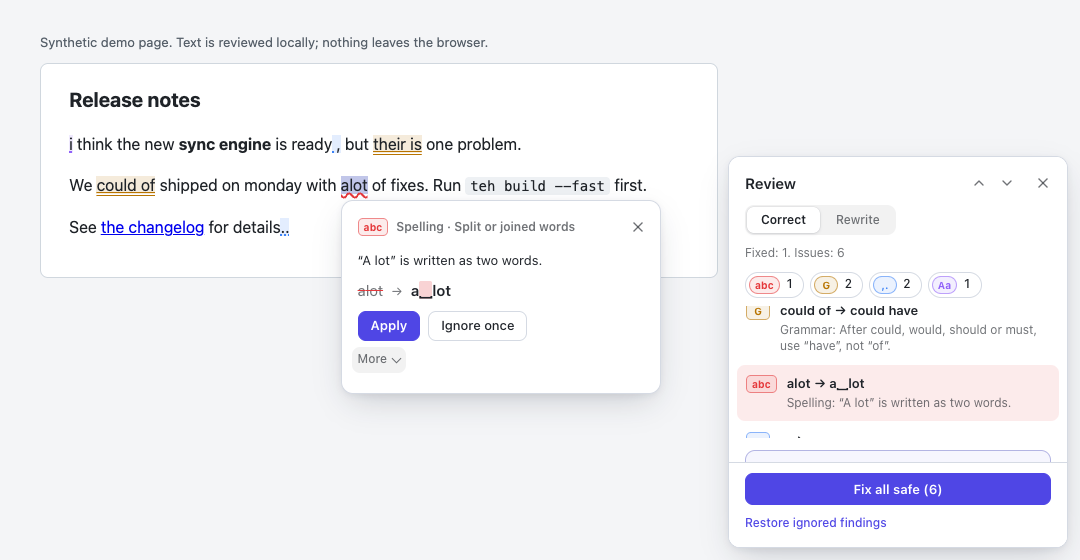
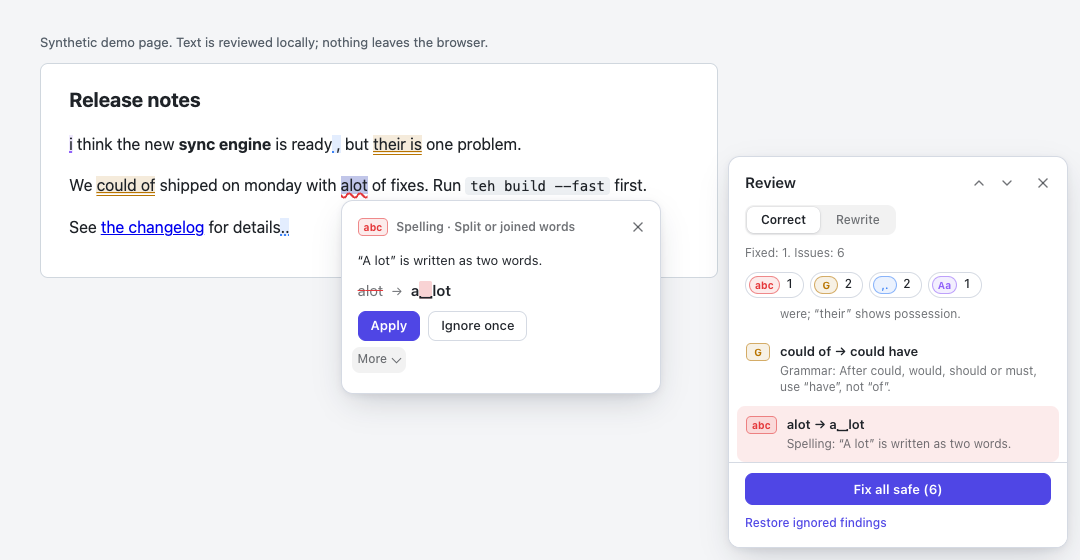
Scroll only the Review panel's middle so the footer never covers a finding
On Linux CI fonts the panel overflowed, and a sticky footer taller than
its scroll padding (Fix all, its note, Restore ignored) covered a list
row scrolled into view. Findings, the AI offer and notes now scroll in
one body between the fixed top and the footer; the list keeps room for
a few rows, and a finished review starts the body at its top.

Changed region(s): [[0.6722, 0.5464, 0.9472, 0.8196], [0.6722, 0.3036, 0.7333, 0.3339]]

diff --git a/src/adapters/chrome/content-script/review/ReviewUi.ts b/src/adapters/chrome/content-script/review/ReviewUi.ts
@@ -292,6 +292,8 @@ export class ReviewUi {
   private readonly notes: HTMLElement;
   private readonly filters: HTMLElement;
   private readonly list: HTMLOListElement;
+  /** The panel's scrolling middle: findings, AI offer and notes. */
+  private readonly body: HTMLElement;
   private readonly prev: HTMLButtonElement;
   private readonly next: HTMLButtonElement;
   private readonly fixAll: HTMLButtonElement;
@@ -509,7 +511,11 @@ export class ReviewUi {
     );
     this.resetIgnores.addEventListener("click", () => this.callbacks.resetIgnores());
     footer.append(this.fixAll, this.fixNote, this.aiBatchButton, this.resetIgnores);
-    // The findings come first; the Local AI offer and coverage notes follow them.
+    // The findings come first; the Local AI offer and coverage notes follow
+    // them. They scroll together between the fixed top and the footer, so
+    // nothing scrolled into view can end up under Fix all.
+    this.body = element(doc, "div", { class: "body" });
+    this.body.append(this.list, this.batch, this.ai, this.notes);
     this.panel.append(
       header,
       this.modes,
@@ -517,10 +523,7 @@ export class ReviewUi {
       this.announcer,
       this.rewrite.root,
       this.filters,
-      this.list,
-      this.batch,
-      this.ai,
-      this.notes,
+      this.body,
       footer,
     );
 
@@ -761,14 +764,15 @@ export class ReviewUi {
     this.resetIgnores.disabled = state.status !== "ready";
     const filtered = state.categories.size < REVIEW_CATEGORIES.length;
     // Nothing left to act on with every category shown: the review is done.
-    this.panel.toggleAttribute(
-      "data-done",
+    const done =
       !rewriting &&
-        state.status === "ready" &&
-        !state.noRules &&
-        !filtered &&
-        state.diagnostics.length === 0,
-    );
+      state.status === "ready" &&
+      !state.noRules &&
+      !filtered &&
+      state.diagnostics.length === 0;
+    // Finishing starts the body at its top: the outcome and what follows it.
+    if (done && !this.panel.hasAttribute("data-done")) this.body.scrollTop = 0;
+    this.panel.toggleAttribute("data-done", done);
     const noteParts = [this.t(filtered ? "review_fix_all_filtered" : "review_fix_all_whole")];
     if (state.bulk.deferred > 0) {
       noteParts.push(this.t("review_fix_all_deferred", { count: state.bulk.deferred }));
@@ -1257,13 +1261,13 @@ export class ReviewUi {
         item.setAttribute("aria-current", String(id === state.selectedId));
       }
     }
-    // Keep the current finding visible in the list, scrolling only the list.
+    // Keep the current finding visible, scrolling only the panel's body.
     const current = state.selectedId ? this.itemFor(state.selectedId) : null;
     if (current) {
-      const box = this.list.getBoundingClientRect();
+      const box = this.body.getBoundingClientRect();
       const rect = current.getBoundingClientRect();
-      if (rect.top < box.top) this.list.scrollTop -= box.top - rect.top;
-      else if (rect.bottom > box.bottom) this.list.scrollTop += rect.bottom - box.bottom;
+      if (rect.top < box.top) this.body.scrollTop -= box.top - rect.top;
+      else if (rect.bottom > box.bottom) this.body.scrollTop += rect.bottom - box.bottom;
     }
   }
 

diff --git a/src/adapters/chrome/content-script/review/reviewStyles.ts b/src/adapters/chrome/content-script/review/reviewStyles.ts
@@ -90,8 +90,6 @@ export const REVIEW_SHADOW_CSS = `
   /* When even a short list does not fit (zoom, small screens), the panel
      itself scrolls so every control stays reachable. */
   overflow-y: auto;
-  /* Controls scrolled into view clear the sticky footer. */
-  scroll-padding-bottom: 72px;
   display: flex;
   flex-direction: column;
   bottom: 12px;
@@ -101,7 +99,10 @@ export const REVIEW_SHADOW_CSS = `
   .panel { max-height: calc(100vh - 24px); }
 }
 .panel > * { flex-shrink: 0; }
-.panel > .list { flex-shrink: 1; }
+/* Only the middle scrolls; the panel itself scrolls only when even that is at its minimum (zoom). */
+.panel > .body { flex: 1 1 auto; min-height: 0; overflow-y: auto; overscroll-behavior: contain; }
+/* While there are findings to work through, they keep room for a few rows. */
+.panel:not([data-done]) > .body:has(> .list:not([hidden])) { min-height: min(132px, 28vh); }
 .panel[data-corner="bottom-left"] { right: auto; left: 12px; }
 .panel[data-corner="top-right"] { bottom: auto; top: 12px; }
 .panel[data-corner="top-left"] { bottom: auto; top: 12px; right: auto; left: 12px; }
@@ -203,7 +204,7 @@ button.link:hover:not(:disabled) { background: transparent; text-decoration: und
   border: 1px solid color-mix(in srgb, var(--ft-cat) 55%, transparent);
   background: color-mix(in srgb, var(--ft-cat) 10%, transparent);
 }
-.list { list-style: none; margin: 0; padding: 2px 8px 6px; overflow: auto; flex: 1; min-height: min(132px, 28vh); }
+.list { list-style: none; margin: 0; padding: 2px 8px 6px; }
 .list li { margin: 1px 0; }
 .item {
   width: 100%;
@@ -219,11 +220,7 @@ button.link:hover:not(:disabled) { background: transparent; text-decoration: und
 .item .badge { align-self: start; margin-top: 1px; }
 .item .change { font-weight: 600; overflow-wrap: anywhere; }
 .item .why { grid-column: 2; font-size: 12px; font-weight: 400; color: var(--ft-muted); }
-/* Fix all stays in reach while the panel scrolls. */
 footer {
-  position: sticky;
-  bottom: 0;
-  margin-top: auto;
   border-top: 1px solid var(--ft-border);
   padding: 10px 16px 12px;
   display: grid;
